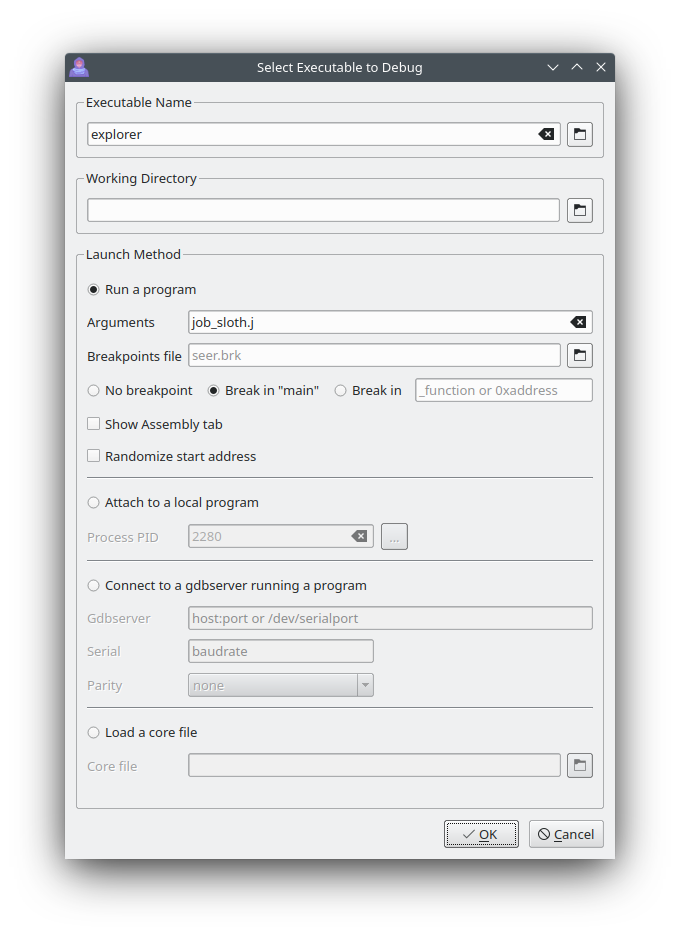
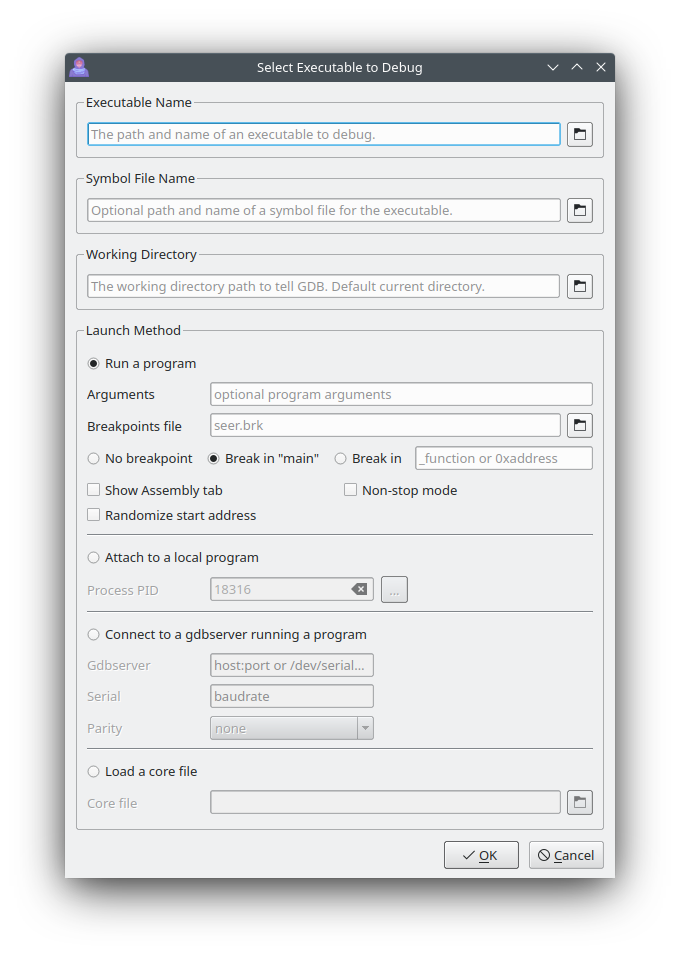
Added alternate file to load symbols from (instead of the debugee executable).

Changed region(s): [[0.0926, 0.062, 0.8956, 0.9295], [0.3706, 0.062, 0.6176, 0.0929], [0.8029, 0.062, 0.8956, 0.0929]]

diff --git a/src/SeerDebugDialog.cpp b/src/SeerDebugDialog.cpp
@@ -20,6 +20,7 @@ SeerDebugDialog::SeerDebugDialog (QWidget* parent) : QDialog(parent) {
 
     // Setup the widgets
     setExecutableName("");
+    setExecutableSymbolName("");
     setExecutableArguments("");
     setBreakpointsFilename("");
     setExecutableWorkingDirectory(QDir::currentPath());
@@ -34,6 +35,7 @@ SeerDebugDialog::SeerDebugDialog (QWidget* parent) : QDialog(parent) {
 
     // Connect things.
     QObject::connect(executableNameToolButton,             &QToolButton::clicked,                              this, &SeerDebugDialog::handleExecutableNameToolButton);
+    QObject::connect(executableSymbolNameToolButton,       &QToolButton::clicked,                              this, &SeerDebugDialog::handleExecutableSymbolNameToolButton);
     QObject::connect(executableWorkingDirectoryToolButton, &QToolButton::clicked,                              this, &SeerDebugDialog::handleExecutableWorkingDirectoryToolButton);
     QObject::connect(loadBreakpointsFilenameToolButton,    &QToolButton::clicked,                              this, &SeerDebugDialog::handleLoadBreakpointsFilenameToolButton);
     QObject::connect(loadCoreFilenameToolButton,           &QToolButton::clicked,                              this, &SeerDebugDialog::handleLoadCoreFilenameToolButton);
@@ -59,6 +61,14 @@ void SeerDebugDialog::setExecutableName (const QString& executableName) {
 
 QString SeerDebugDialog::executableName () const {
     return executableNameLineEdit->text();
+}
+
+void SeerDebugDialog::setExecutableSymbolName (const QString& executableSymbolName) {
+    executableSymbolNameLineEdit->setText(executableSymbolName);
+}
+
+QString SeerDebugDialog::executableSymbolName () const {
+    return executableSymbolNameLineEdit->text();
 }
 
 void SeerDebugDialog::setExecutableWorkingDirectory (const QString& executableWorkingDirectory) {
@@ -268,6 +278,15 @@ void SeerDebugDialog::handleExecutableNameToolButton () {
 
     if (name != "") {
         setExecutableName(name);
+    }
+}
+
+void SeerDebugDialog::handleExecutableSymbolNameToolButton () {
+
+    QString name = QFileDialog::getOpenFileName(this, "Select a Symbol File for the executable.", executableSymbolName(), "", nullptr, QFileDialog::DontUseNativeDialog);
+
+    if (name != "") {
+        setExecutableSymbolName(name);
     }
 }
 

diff --git a/src/seergdb.cpp b/src/seergdb.cpp
@@ -46,6 +46,9 @@ int main (int argc, char* argv[]) {
     QCommandLineOption startOption(QStringList()<<"s"<<"start", QCoreApplication::translate("main", "Load the executable, break in \"main\", and run it."));
     parser.addOption(startOption);
 
+    QCommandLineOption symbolfileOption(QStringList()<<"sym"<<"symbol-file", QCoreApplication::translate("main", "Load symbols from a separate file than the executable."), "symbolfilename");
+    parser.addOption(symbolfileOption);
+
     QCommandLineOption breakfileOption(QStringList()<<"bl"<<"break-load", QCoreApplication::translate("main", "Load a previously saved breakpoints file. For --run or --start"), "filename");
     parser.addOption(breakfileOption);
 
@@ -108,6 +111,7 @@ int main (int argc, char* argv[]) {
     QString breakMode     = "none";
     int     executablePid = -1;
     QString executableHostPort;
+    QString executableSymbolFilename;
     QString executableBreakpointsFilename;
     QString executableBreakpointFunctionName;
     QString executableShowAssemblyTab;
@@ -123,6 +127,10 @@ int main (int argc, char* argv[]) {
     if (parser.isSet(startOption)) {
         launchMode = "run";
         breakMode  = "inmain";
+    }
+
+    if (parser.isSet(symbolfileOption)) {
+        executableSymbolFilename = parser.value(symbolfileOption);
     }
 
     if (parser.isSet(breakfileOption)) {
@@ -178,6 +186,7 @@ int main (int argc, char* argv[]) {
 
     seer.setWindowIcon(QIcon(":/seer/resources/seergdb_64x64.png"));
     seer.setExecutableName(executableName);
+    seer.setExecutableSymbolName(executableSymbolFilename);
     seer.setExecutableArguments(positionalArguments);
 
     if (executableBreakpointsFilename != "") {

diff --git a/src/SeerGdbWidget.cpp b/src/SeerGdbWidget.cpp
@@ -346,6 +346,17 @@ const QString& SeerGdbWidget::executableName () const {
     return _executableName;
 }
 
+void SeerGdbWidget::setExecutableSymbolName (const QString& executableSymbolName) {
+
+    _executableSymbolName = executableSymbolName;
+
+    setNewExecutableFlag(true);
+}
+
+const QString& SeerGdbWidget::executableSymbolName () const {
+    return _executableSymbolName;
+}
+
 void SeerGdbWidget::setNewExecutableFlag (bool flag) {
 
     _newExecutableFlag = flag;
@@ -1414,7 +1425,22 @@ void SeerGdbWidget::handleGdbExecutableName () {
         return;
     }
 
-    handleGdbCommand(QString("-file-exec-and-symbols \"") + executableName() + "\"");
+    //qDebug() << executableName();
+    //qDebug() << executableSymbolName();
+
+    // executableName() is expected to be non-blank.
+
+    // No symbol file? Symbols are expected in the executable.
+    if (executableSymbolName() == "") {
+
+        handleGdbCommand(QString("-file-exec-and-symbols \"") + executableName() + "\"");
+
+    // A symbol file?  Open the executable and symbol files separately.
+    }else{
+
+        handleGdbCommand(QString("-file-exec-file \"")   + executableName() + "\"");
+        handleGdbCommand(QString("-file-symbol-file \"") + executableSymbolName() + "\"");
+    }
 }
 
 void SeerGdbWidget::handleGdbExecutableArguments () {

diff --git a/src/SeerMainWindow.cpp b/src/SeerMainWindow.cpp
@@ -209,6 +209,14 @@ const QString& SeerMainWindow::executableName () const {
     return gdbWidget->executableName();
 }
 
+void SeerMainWindow::setExecutableSymbolName (const QString& executableSymbolName) {
+    gdbWidget->setExecutableSymbolName(executableSymbolName);
+}
+
+const QString& SeerMainWindow::executableSymbolName () const {
+    return gdbWidget->executableSymbolName();
+}
+
 void SeerMainWindow::setExecutableArguments (const QString& executableArguments) {
 
     gdbWidget->setExecutableArguments(executableArguments);
@@ -380,6 +388,7 @@ void SeerMainWindow::handleFileDebug () {
     SeerDebugDialog dlg(this);
 
     dlg.setExecutableName(executableName());
+    dlg.setExecutableSymbolName(executableSymbolName());
     dlg.setExecutableWorkingDirectory(executableWorkingDirectory());
     dlg.setExecutableArguments(executableArguments());
     dlg.setBreakpointsFilename(executableBreakpointsFilename());
@@ -409,6 +418,7 @@ void SeerMainWindow::handleFileDebug () {
     }
 
     setExecutableName(dlg.executableName());
+    setExecutableSymbolName(dlg.executableSymbolName());
     setExecutableWorkingDirectory(dlg.executableWorkingDirectory());
     setExecutableArguments(dlg.executableArguments());
     setExecutableBreakpointsFilename(dlg.breakpointsFilename());

diff --git a/src/SeerDebugDialog.h b/src/SeerDebugDialog.h
@@ -18,6 +18,9 @@ class SeerDebugDialog : public QDialog, protected Ui::SeerDebugDialogForm {
         void                    setExecutableName                               (const QString& executableName);
         QString                 executableName                                  () const;
 
+        void                    setExecutableSymbolName                         (const QString& executableSymbolName);
+        QString                 executableSymbolName                            () const;
+
         void                    setExecutableWorkingDirectory                   (const QString& executableWorkingDirectory);
         QString                 executableWorkingDirectory                      () const;
 
@@ -59,6 +62,7 @@ class SeerDebugDialog : public QDialog, protected Ui::SeerDebugDialogForm {
 
     protected slots:
         void                    handleExecutableNameToolButton                  ();
+        void                    handleExecutableSymbolNameToolButton            ();
         void                    handleExecutableWorkingDirectoryToolButton      ();
         void                    handleLoadBreakpointsFilenameToolButton         ();
         void                    handleBreakpointInFunctionLineEdit              ();

diff --git a/src/SeerGdbWidget.h b/src/SeerGdbWidget.h
@@ -29,6 +29,9 @@ class SeerGdbWidget : public QWidget, protected Ui::SeerGdbWidgetForm {
         void                                setExecutableName                   (const QString& executableName);
         const QString&                      executableName                      () const;
 
+        void                                setExecutableSymbolName             (const QString& executableSymbolName);
+        const QString&                      executableSymbolName                () const;
+
         void                                setNewExecutableFlag                (bool flag);
         bool                                newExecutableFlag                   () const;
 
@@ -332,6 +335,7 @@ class SeerGdbWidget : public QWidget, protected Ui::SeerGdbWidgetForm {
         QString                             _assemblyRegisterFormat;
 
         QString                             _executableName;
+        QString                             _executableSymbolName;
         QString                             _executableArguments;
         QString                             _executableWorkingDirectory;
         QString                             _executableBreakpointsFilename;

diff --git a/src/SeerMainWindow.h b/src/SeerMainWindow.h
@@ -22,6 +22,8 @@ class SeerMainWindow : public QMainWindow, protected Ui::SeerMainWindowForm {
 
         void                        setExecutableName                   (const QString& executableName);
         const QString&              executableName                      () const;
+        void                        setExecutableSymbolName             (const QString& executableSymbolName);
+        const QString&              executableSymbolName                () const;
         void                        setExecutableArguments              (const QString& executableArguments);
         void                        setExecutableArguments              (const QStringList& executableArguments);
         const QString&              executableArguments                 () const;

diff --git a/tests/hellosymbolfile/hellosymbolfile.cpp b/tests/hellosymbolfile/hellosymbolfile.cpp
@@ -1,0 +1,26 @@
+#include <string>
+#include <iostream>
+
+void function1 (const std::string& message);
+
+int main (int argc, char** argv) {
+
+    int j = 0;
+
+    for (int i=0; i<argc; i++) {
+        std::cout << "XX: "
+                  << i
+                  << " "
+                  << argv[i]
+                  << std::endl;
+    }
+
+    std::string message = "Hello, World!";
+
+    j++;
+
+    function1(message);
+
+    return 0;
+}
+

diff --git a/tests/hellosymbolfile/function1.cpp b/tests/hellosymbolfile/function1.cpp
@@ -1,0 +1,15 @@
+#include "function1.h"
+#include <iostream>
+#include <unistd.h>
+
+void function1 (const std::string& text) {
+
+    int i = 42;
+
+    sleep(2); // Simulate doing work.
+
+    std::cout << text << i << std::endl;
+
+    sleep(3); // Simulate doing work.
+}
+

diff --git a/tests/hellosymbolfile/function1.h b/tests/hellosymbolfile/function1.h
@@ -1,0 +1,6 @@
+#pragma once
+
+#include <string>
+
+void function1 (const std::string& text);
+

diff --git a/README.md b/README.md
@@ -224,6 +224,11 @@ with no start address randomization.
     % seergdb --start --sar yes  myprog arg1 arg2       # Debug myprog with its arguments.
                                                         # The program's start address is randomized.
 
+The program's symbols can be taken from a separated file instead of the executable.
+
+    % seergdb --sym myprog.db myprog arg1 arg2          # Debug myprog with its arguments.
+                                                        # Take the symbols from myprog.dbg.
+
 See "-h" for the full Seer help.
 
     % seergdb -h

diff --git a/CHANGELOG.md b/CHANGELOG.md
@@ -13,6 +13,7 @@
 * Re-added the original struct visualizers as "Basic Struct Visualizer". The advanced
   version is called "Struct Visualizer".
 * Moved selection of visualizers into a sub menu called "Visualizers" on the menu bar.
+* Added alternate file to load symbols from (instead of the debugee executable.
 
 ## [1.13] - 2022-12-02
 
